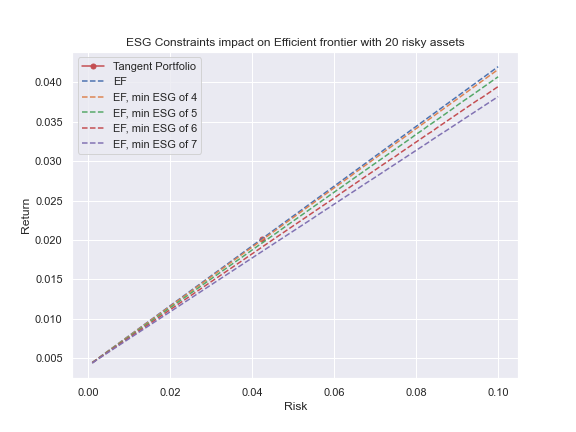
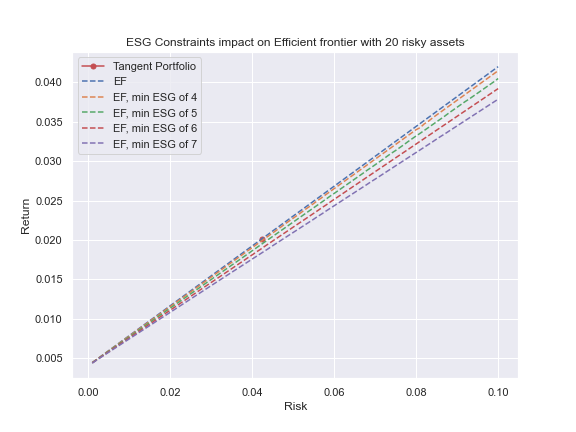
added agencies scores

Changed region(s): [[0.2812, 0.1505, 0.875, 0.7222], [0.25, 0.7222, 0.2812, 0.7523], [0.2188, 0.7523, 0.25, 0.7824]]

diff --git a/test_real_ESG.py b/test_real_ESG.py
@@ -37,19 +37,30 @@ SM = ScoreMaker(scores_ranks, dict_agencies, valid_tickers, valid_indices, 7)
 SMK = SM.kmeans()
 SMG, taumax = SM.classify_gaussian_mixture()
 
+# ESG Target variables
 ESGTV = SM.make_score(SMK)
 ESGTV2 = SM.make_score(SMG)
 
 # Worst score approach
 #ESGTV3 = SG.worst_score(scores_ranks, n_classes = 7)
 
+# Agencies scores
+SG_agencies = ScoreGetter('ESG/Scores/')
+SG_agencies.reduced_df()
+_ = SG_agencies.get_score_df()
+scores_valid = SG_agencies.keep_valid()
+
+agencies_df = []
+for agency in scores_valid.columns:
+    agencies_df.append(pd.DataFrame({'Tag': valid_tickers, 'Score': scores_valid[agency]}))
+    
 
 #%% Get the stock data and keep the companies in common with the target variable
 st = Stocks(path, annual_rf)
 st.process_data()
 st.compute_monthly_returns()
-_ = st.keep_common_tickers(ESGTV2, sectors_list)
-stocks_ESG = st.restrict_assets(5)
+_ = st.keep_common_tickers(agencies_df[3], sectors_list)
+stocks_ESG = st.restrict_assets(10)
 st.compute_mean()
 st.compute_covariance()
 mean, cov, rf = st.get_mean(), st.get_covariance(), st.get_rf()
@@ -62,7 +73,7 @@ epf = ESG_Portfolio(mean,cov,rf, stocks_ESG, short_sales = True)
 tangent_weights = epf.tangent_portfolio()
 tangent_risk, tangent_return = epf.get_risk(tangent_weights), epf.get_return(tangent_weights)
 
-epf = epf.risk_free_stats()
+#epf = epf.risk_free_stats()
 
 sharpes, ESG_list = epf.efficient_frontier_ESG(min(stocks_ESG), max(stocks_ESG) + 1, interval = 1)
 
@@ -75,7 +86,7 @@ epf.new_figure()
 epf.plot_tangent(tangent_risk, tangent_return)
 epf.plot_constrained_frontier(risks, returns)
 
-for min_ESG in range(4,8):
+for min_ESG in range(int(min(stocks_ESG)),int(max(stocks_ESG)) + 1, 5):
     risks_new, returns_new, sharpes_new = epf.efficient_frontier(max_std = 0.10, method = 2, new_constraints = [epf.ESG_constraint(min_ESG)])
     epf.plot_constrained_frontier(risks_new, returns_new, ESG_min_level = min_ESG)
 #%% Plot them

diff --git a/Portfolio.py b/Portfolio.py
@@ -35,7 +35,7 @@ class Portfolio:
         
     def change_short_sales(self):
         self.short_sales = not(self.short_sales)
-        return self
+        return self 
     
     def get_variance(self, weights):
         return weights.T.dot(self.sigma).dot(weights)
@@ -133,6 +133,7 @@ class Portfolio:
             for c in np.linspace(min_std, max_std, n_points): 
                 weights = self.optimal_portfolio(2, max_risk= c, new_constraints = new_constraints)
                 risk = self.get_risk(weights)
+
                 if not(math.isnan(risk)):
                     risks.append(risk)
                     returns.append(self.get_return(weights))
